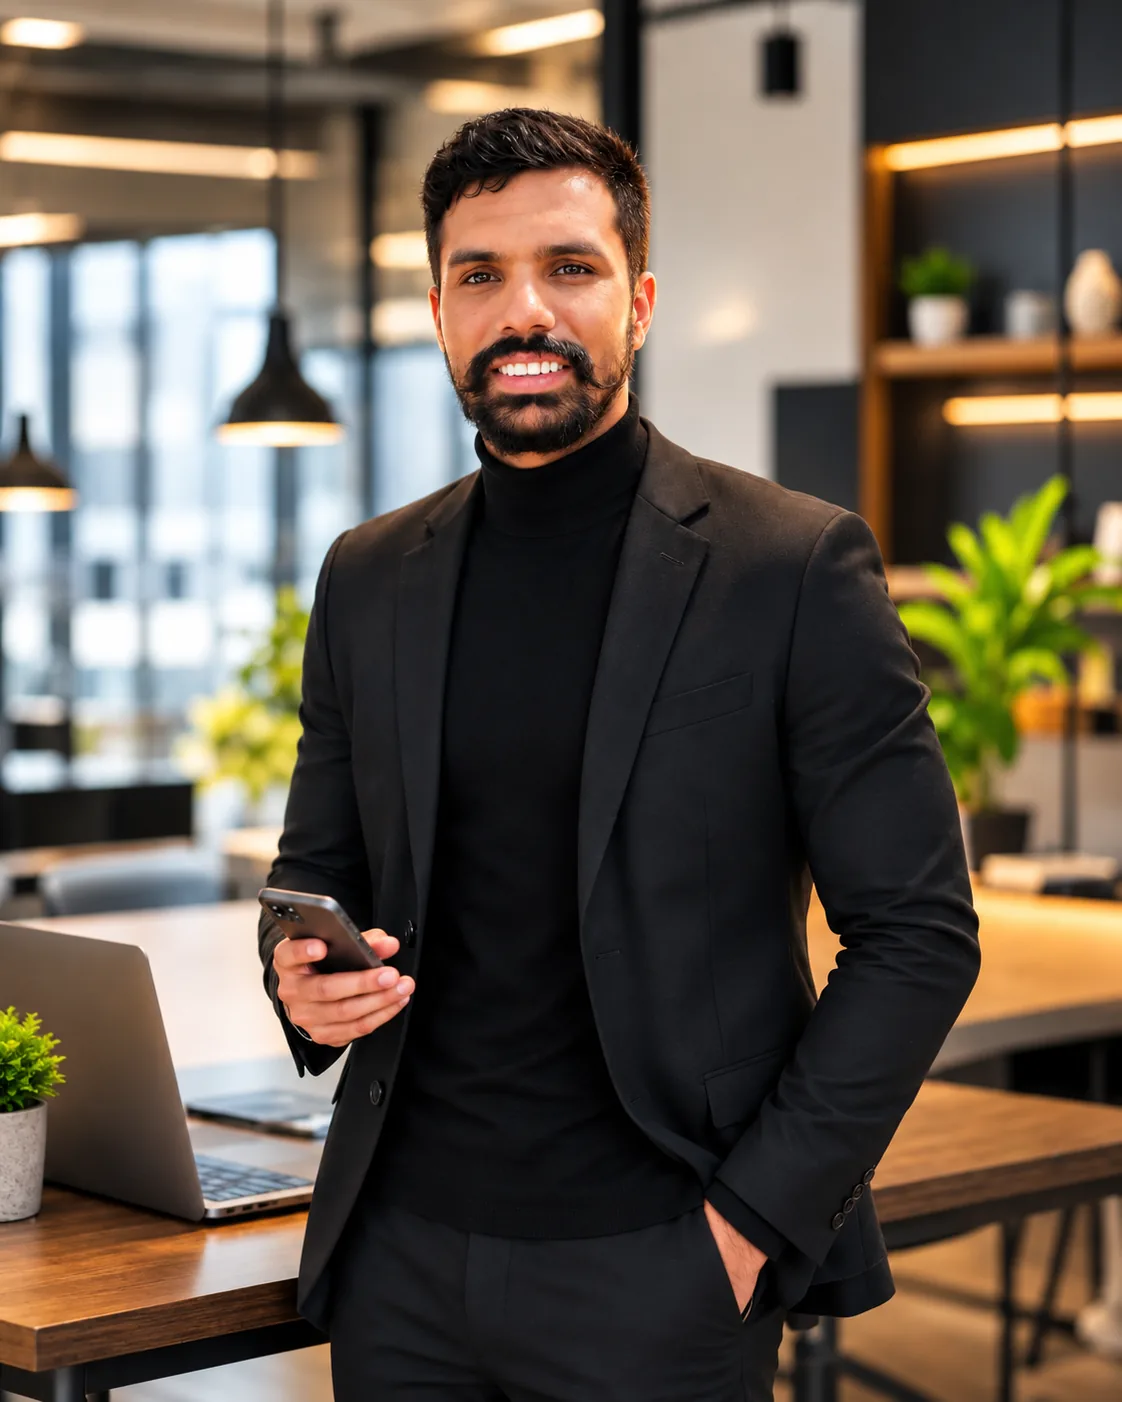
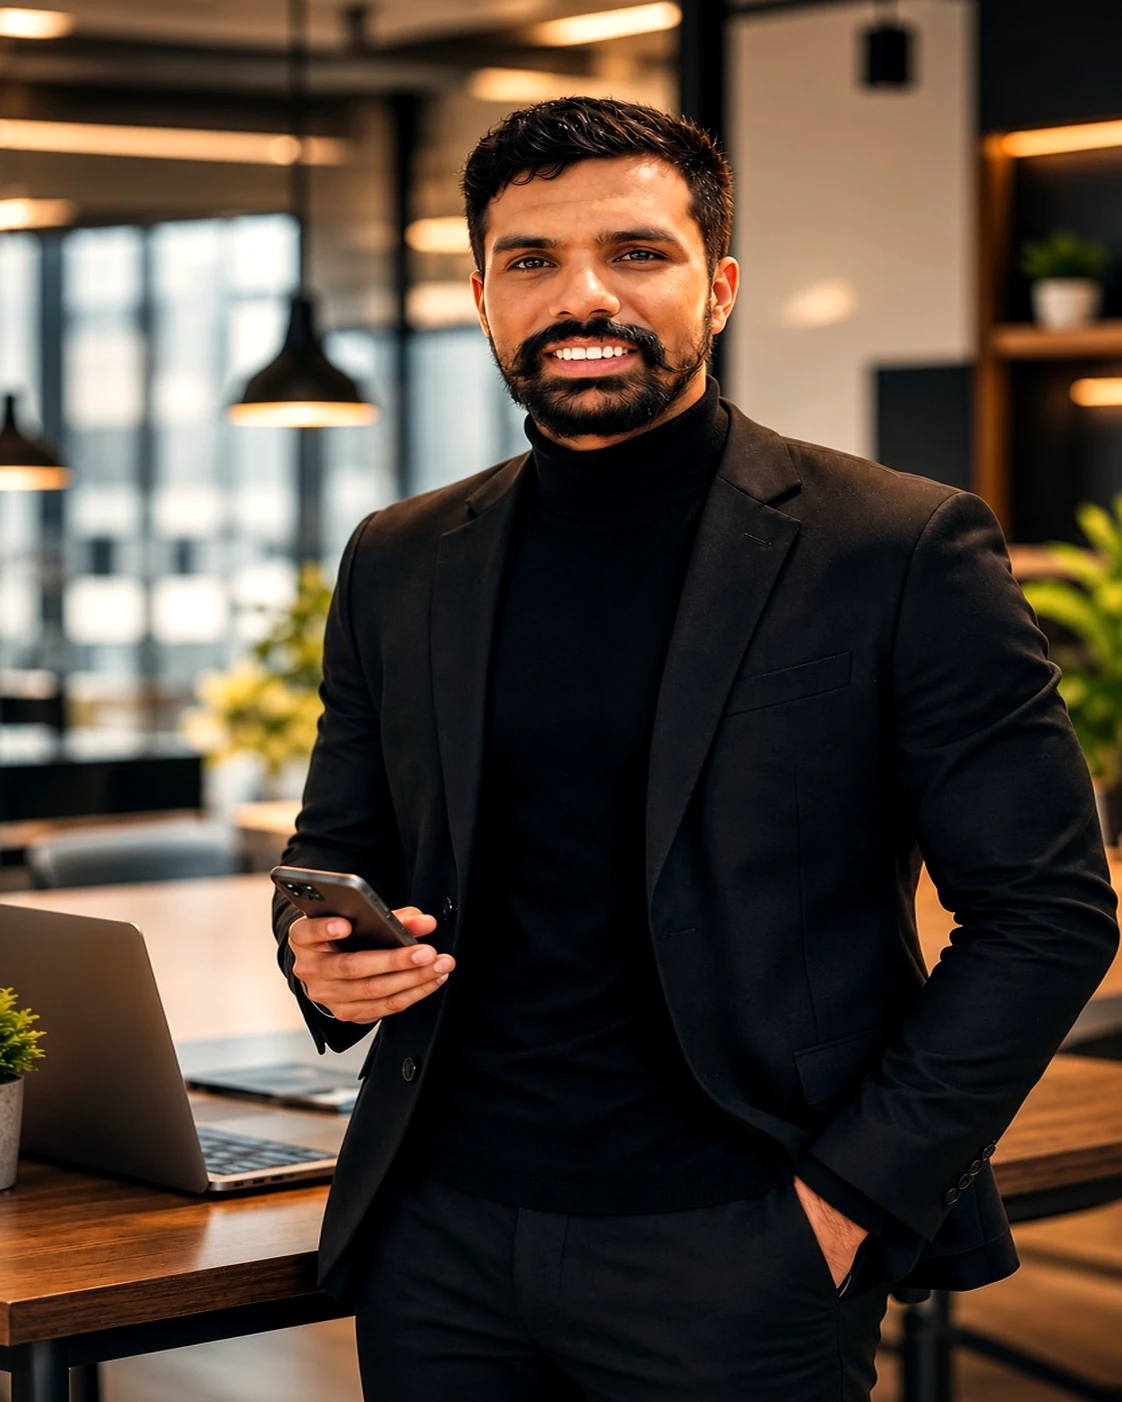
Polish hero portrait: photoreal grade and tighter crop
Warm cinematic retouch, natural skin texture, and raise object-position so the face sits better in the oval frame.

diff --git a/styles.css b/styles.css
@@ -284,7 +284,7 @@ button, select { cursor: pointer; }
 .hero-number { position: absolute; right: -8px; top: -54px; z-index: -1; color: rgba(180, 95, 61, 0.12); font-family: var(--display); font-size: 150px; font-weight: 300; line-height: 1; }
 .portrait-frame { position: relative; aspect-ratio: 0.78; overflow: hidden; border: 1px solid rgba(29, 23, 19, 0.19); border-radius: 46% 46% 20px 20px; background: #bba18e; box-shadow: var(--shadow-lg); }
 .portrait-frame::after { content: ""; position: absolute; inset: 0; background: linear-gradient(180deg, transparent 52%, rgba(18, 12, 9, 0.76)); pointer-events: none; }
-.portrait-frame > img { width: 100%; height: 100%; object-fit: cover; object-position: 50% 42%; transition: transform 0.8s var(--ease); }
+.portrait-frame > img { width: 100%; height: 100%; object-fit: cover; object-position: 50% 18%; transition: transform 0.8s var(--ease); }
 .portrait-frame:hover > img { transform: scale(1.025); }
 .portrait-glow { position: absolute; inset: 9% 12% auto; z-index: 1; height: 50%; border-radius: 50%; background: radial-gradient(circle, rgba(255, 213, 183, 0.18), transparent 65%); pointer-events: none; }
 .portrait-caption { position: absolute; inset: auto 28px 25px; z-index: 2; display: grid; color: var(--white); }
